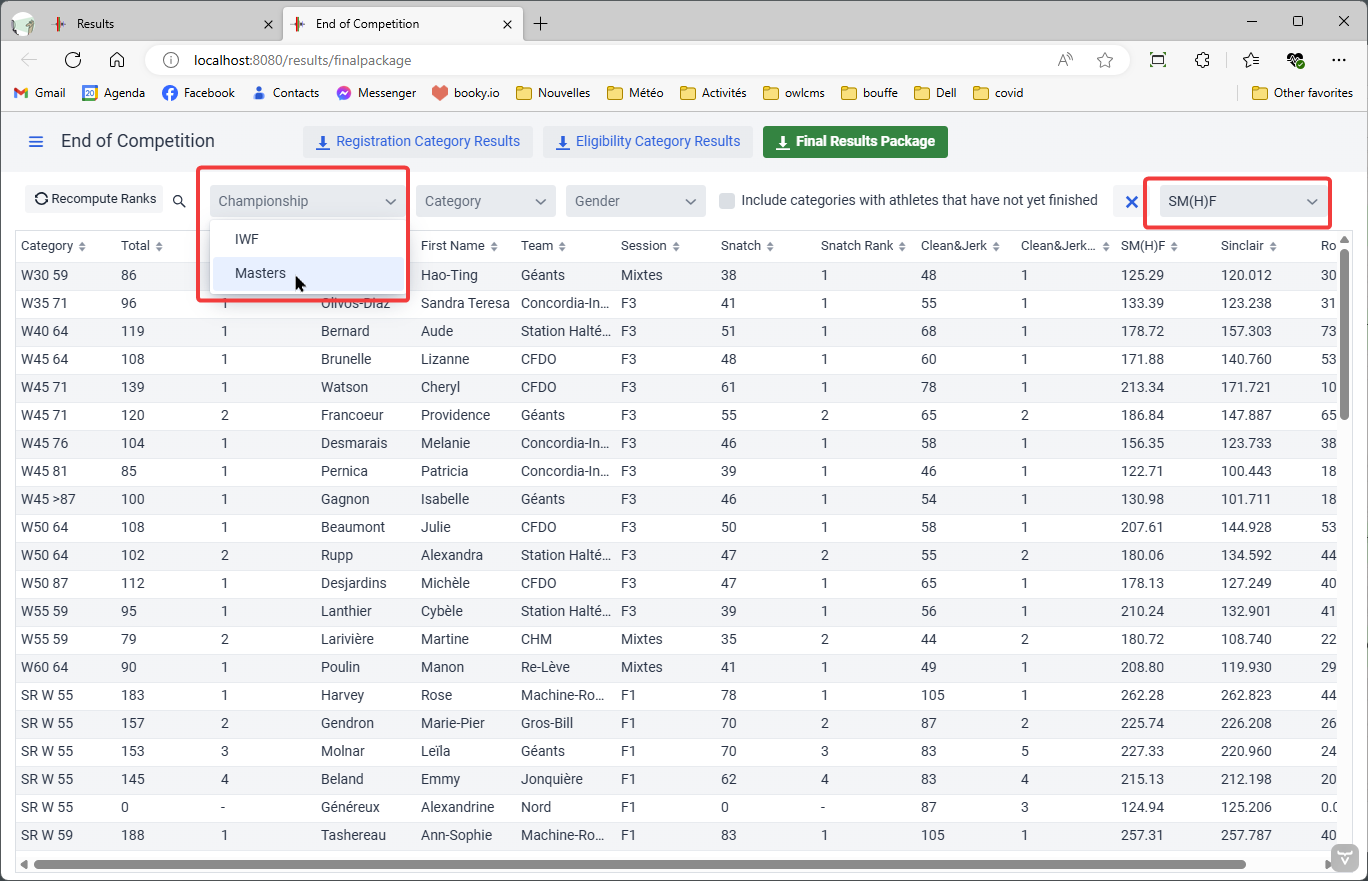
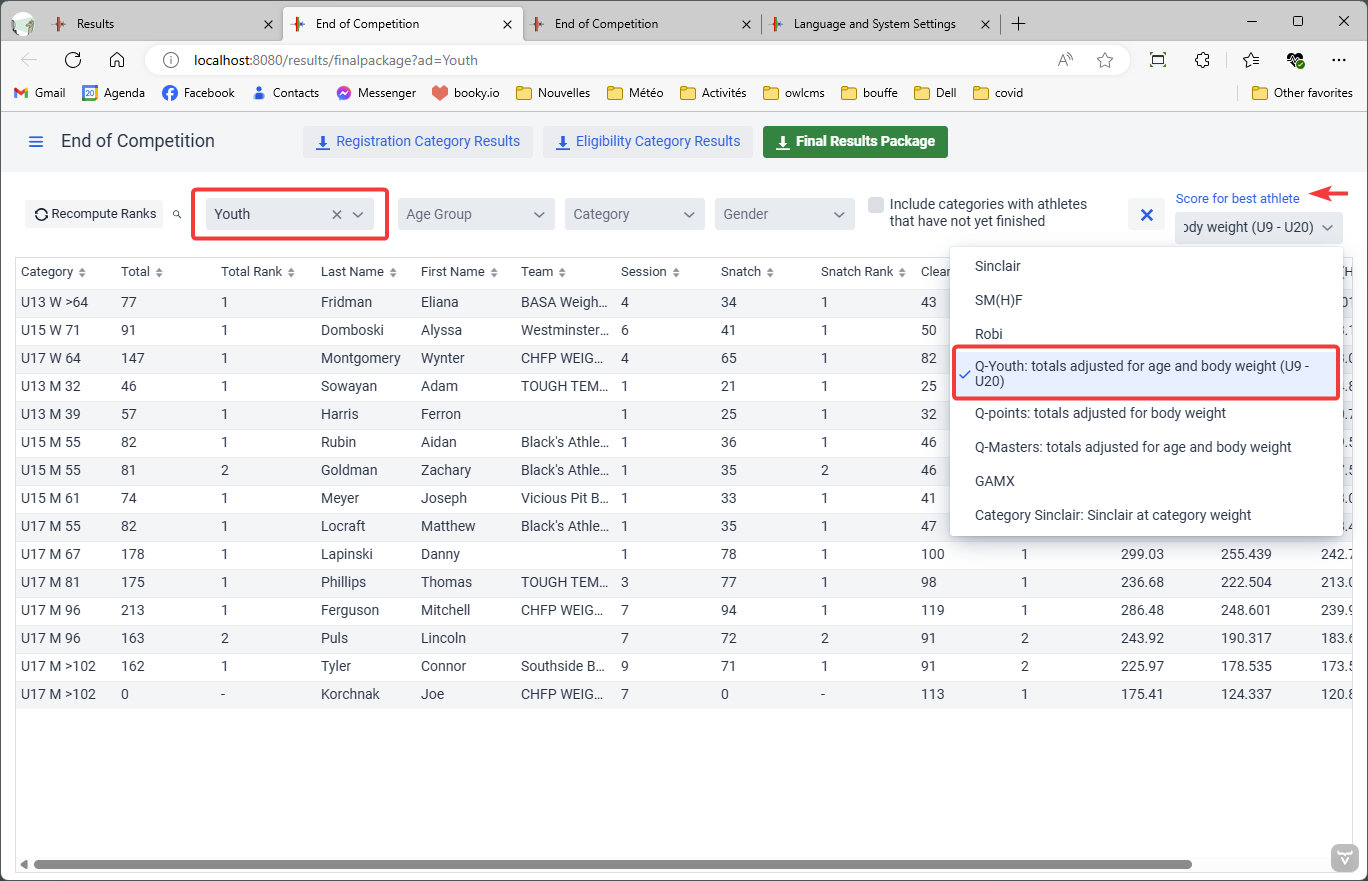
Updated documentation for the Competition Results.

diff --git a/owlcms/src/main/java/app/owlcms/nui/results/PackageContent.java b/owlcms/src/main/java/app/owlcms/nui/results/PackageContent.java
@@ -37,6 +37,7 @@ import com.vaadin.flow.component.notification.Notification.Position;
 import com.vaadin.flow.component.orderedlayout.FlexComponent;
 import com.vaadin.flow.component.orderedlayout.FlexLayout;
 import com.vaadin.flow.component.orderedlayout.HorizontalLayout;
+import com.vaadin.flow.dom.Element;
 import com.vaadin.flow.router.BeforeEvent;
 import com.vaadin.flow.router.HasDynamicTitle;
 import com.vaadin.flow.router.Location;
@@ -426,6 +427,9 @@ public class PackageContent extends AthleteGridContent implements HasDynamicTitl
 				Component reset = createReset();
 				if (reset != null) {
 					this.crudLayout.addToolbarComponent(reset);
+					Element toolbar = reset.getParent().get().getElement();
+					toolbar.getStyle().set("flex-wrap", "wrap").set("align-content", "center");
+					
 				}
 			}
 
@@ -503,7 +507,7 @@ public class PackageContent extends AthleteGridContent implements HasDynamicTitl
 		getCrudLayout(crud).addFilterComponent(clearFilters);
 		
 		if (this.getRankingSelector() == null) {
-			ComboBox<Ranking> scoringCombo = new ComboBox<>();
+			ComboBox<Ranking> scoringCombo = new ComboBox<>(Translator.translate("Ranking.BestAthlete"));
 			scoringCombo.setItems(Ranking.scoringSystems());
 			scoringCombo.setItemLabelGenerator(r -> Ranking.getScoringExplanation(r));
 			scoringCombo.getElement().getStyle().set("--vaadin-combo-box-overlay-width", "50ch");

diff --git a/docs/ResultDocuments.md b/docs/ResultDocuments.md
@@ -42,52 +42,61 @@ On the `Results` Page, the `Team Results` button shows how many points have been
 
 ## Competition Results
 
-The Competition Results page is used to produce the overall results for a competition.  It can be used during a competition to produce interim results, or at the end.
+The Competition Results page provides the overall results of a competition.  It can also be used during a competition to produce interim results.
 
 There are three types of competition results
 
-- Registration Category Results: Each athlete appears *once*.  This is normally sent to the Federation after the competition.  All athletes appear under the category under which they were registered and lifted.
-- Registration Category Results: This is typically posted as competition results.  Athletes appear in all the categories where they were eligible, with their rank in each category.  If an athlete won several medals, this document will show it.
-- Final Package.  This contains the Eligibility Category Results and other Tabs for the best lifter awards.  It also contains the medals won, and the points scored per each teams.
+- Registration Category Results: Each athlete appears *once*.  This is normally sent to the Federation after the competition.  All athletes appear under they lifted officially (a 15-year old lifts as a Youth if there is such a category but is potentially eligible to Junior medals, therefore that athlete would appear as a Youth)
+- Registration Category Results: This is typically posted as the Competition Results proper.  Athletes appear in all the categories where they were eligible, with their rank in each category.  If an athlete won several medals, this document will show it.
+- Final Package.  This contains the Eligibility Category Results, the Best Lifter Awards, the Team Medals and Points, and the Records set during the competition.
 
-### Championship Selection
+### Multiple Championships
 
-Sometimes two or more championships are held together during the same meet.  For example, there can be a Youth Championship the same weekend as a Junior Championship, etc.  Some federations even have all their championships together.
+Sometimes two or more championships are held together during the same meet.  For example, there can be a Youth Championship the same weekend as a Junior Championship, etc.  Some federations even hold all their championships together.
 
 In the following picture, two things are shown
 
-- We want to produce the results only for the Masters Championships
+- We want to produce the results only for the Youth Championships
+- We want the Q-Youth scoring system to be used for the Best Lifters sheet.  Selecting this will also update the grid on the page to show Q-Youth.
 
-- We want to specify a preference for the SM(H)F scoring system to be used for the Best Lifters sheet in the final package
-
-  > Note: currently, only the `Scores` final package takes this setting into account, see below.  But in upcoming releases the other templates will be modified to do so.
-
-![ChampionshipSelection](img/ResultDocuments/ChampionshipSelection.png)
+![ChampionshipSelection](img/ResultDocuments/ChampionshipSelection.png )
 
 ### Final Package
 
 The "Final Package" package contains several tabs.
 
 - Eligibility Category results
-- One or more pages for different "best lifter" scoring schemes (Sinclair, Robi, Q-points, etc.)
+
+  The "best athlete" scoring scheme, as selected.  Note that for the Masters final packages, the best lifter pages are fixed in advance, and your federation may also have made the choice in advance in the template you are provided.
+
 - Team Scores (points and medals), see the [section below](#team-points-and-medals)
+
+- All the new records set.
 
 Four templates are commonly used
 
 - The `Total` template is used for competitions that awards medals and points for Total only.
 - The `SnCjTotal` template is used for competitions that award three separate medals, as well as points for all the lifts.
 - The `Masters` template is used for Masters events -- it shows the SM(H)F and Q-Masters scores used to determine the Grand Master awards.
-- The `Scores` template is used in two circumstances
-  - The first one, already mentioned is when a championship uses a specific Best Lifter award.  For example, a Youth championship might use the Q-Youth formula instead of Sinclair, or an IWF championship might use the Q-points or GAMX formula.
-  - The second one is when Score-based medals are awarded to the groups.  For these age groups, the computed score will be used to order the results.
+- The `Scores` template is used when [Score-based Medals](ScoreBasedCompetitions) are awarded to the groups. For example, all U9 boys may compete together, and their Q-Youth score could be used for the medals.  The AgeGroups file would have specified "AGEFACTORS" as the scoring system for that age group.
 
 ### Team Points and Medals
 
-The team ranking tabs shows the team cumulative points, and the details for each athlete at the bottom.
+The team scores tabs shows the team cumulative points and medals. The details for each athlete are shown at the bottom.
 
-If you wish to sort the points table, please note that due to the way Excel works you will need to copy the table area somewhere else in the page and use the "Paste as values" option before you are able to sort it.
+If you wish to sort the points table, you need to copy the team names and points to another area of the page, and use the Paste Special option to do a **Paste as values**.  Once that is done, you can format as table and sort by descending points.
 
 ![061_pasteValues](img/ResultDocuments/061_pasteValues.png)
+
+A medals table is also present and it can be sorted using the same technique (select, copy, paste special "as values", sort)
+
+![Medals](img/ResultDocuments/Medals.png)
+
+### Records
+
+A summary of all records broken is present in the standard templates.
+
+![Records](img/ResultDocuments/Records.png)
 
 ## Time Statistics
 
